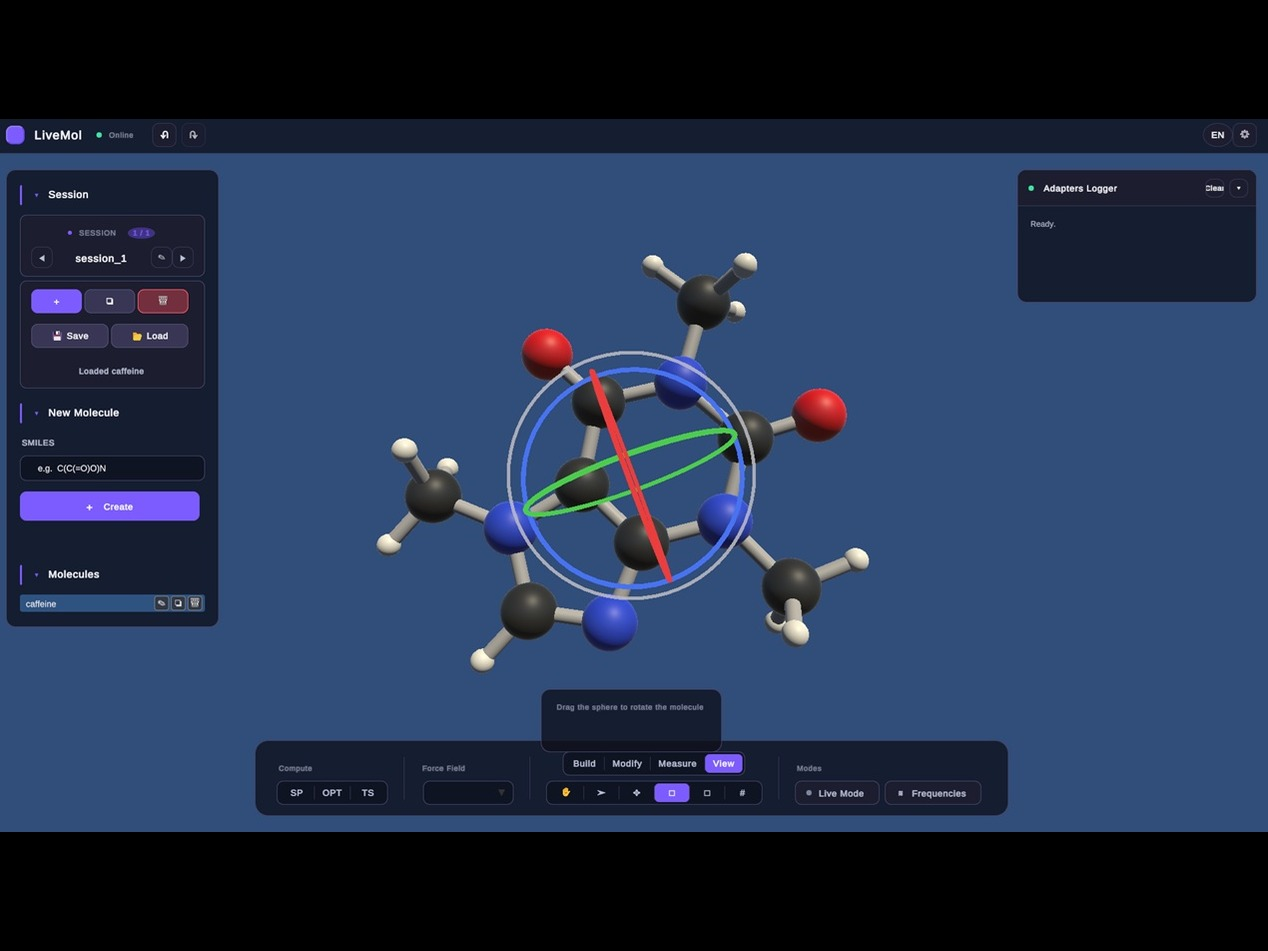
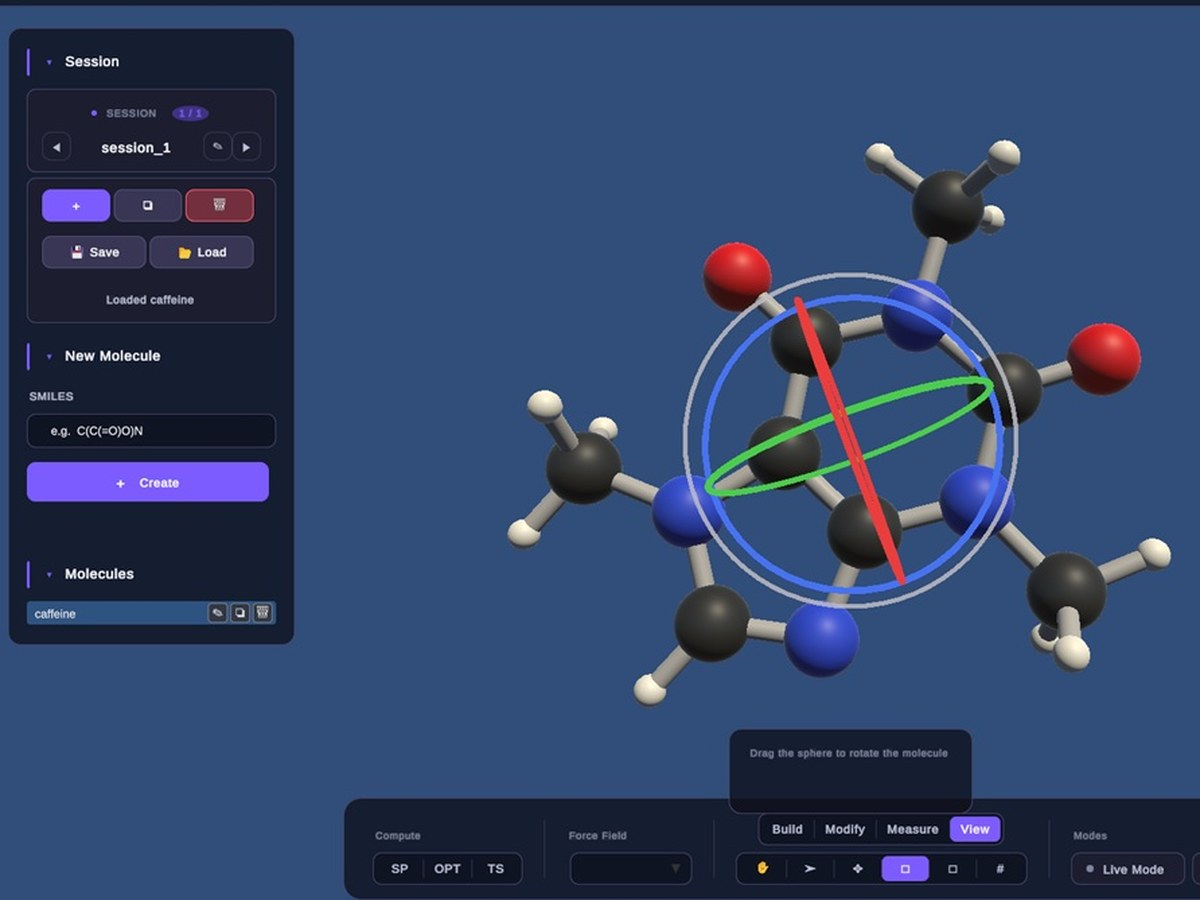
Recrop LiveMol thumbnail to molecule + Session panel (no bars); HE copy + author meta
- LiveMol thumbnail: crop source to the caffeine molecule (hero) plus the
  left Session panel for tool context, filling the 4:3 frame with no
  letterbox bars, cohesive with the other Selected Work cards. Reviewed/approved.
- Hebrew mobile copy word order: אפליקציות מרתקות לנייד.
- Add author meta (Julia Pavlov).

diff --git a/index.html b/index.html
@@ -5,6 +5,7 @@
 <meta name="viewport" content="width=device-width, initial-scale=1.0">
 <title>Red Crown Interactive · Graphical Application Development · XR, Mobile & PC</title>
 <meta name="description" content="Red Crown Interactive builds immersive, high-performance graphical applications in Unity for XR, mobile, and PC.">
+<meta name="author" content="Julia Pavlov">
 <link rel="icon" type="image/svg+xml" href="assets/logo-kit/redcrown-solid-scarlet.svg">
 <style>
 @font-face{font-family:'Chakra Petch';src:url('fonts/ChakraPetch-Bold.woff2')format('woff2');font-weight:700;font-display:swap}
@@ -508,7 +509,7 @@ const I18N = {
     "hero.ctaPrimary":"בואו נבנה יחד",
     "hero.ctaSecondary":"לצפייה בעבודות &nbsp;←",
     "svc.xr.title":"מציאות מדומה / משולבת","svc.xr.desc":"חוויות סוחפות שלוקחות את המשתמשים למציאויות חדשות. נבנה על Meta Quest 3, עם שלטים, מחוות ידיים ואינטראקציות ידיים מבוססות פיזיקה.","svc.xr.link":"גלו עוד ←",
-    "svc.mobile.title":"אפליקציות לנייד","svc.mobile.desc":"אפליקציות לנייד מרתקות עם ויזואליה מרהיבה וביצועים חלקים. פיתוח חוצה-פלטפורמות ל-iOS ול-Android, עם ניסיון בהשקת משחקים מסחריים למיליוני משתמשים.","svc.mobile.link":"גלו עוד ←",
+    "svc.mobile.title":"אפליקציות לנייד","svc.mobile.desc":"אפליקציות מרתקות לנייד עם ויזואליה מרהיבה וביצועים חלקים. פיתוח חוצה-פלטפורמות ל-iOS ול-Android, עם ניסיון בהשקת משחקים מסחריים למיליוני משתמשים.","svc.mobile.link":"גלו עוד ←",
     "svc.pc.title":"אפליקציות למחשב","svc.pc.desc":"אפליקציות ומשחקים בעלי ביצועים גבוהים, לצד אפליקציות מדעיות מורכבות בזמן אמת, למידת מכונה ועוד. בנויים לעוצמה ולדיוק.","svc.pc.link":"גלו עוד ←",
     "wwd.kicker":"מה אנחנו עושים",
     "wwd.1.title":"קונספט ועיצוב","wwd.1.desc":"מרעיונות לקונספטים מרתקים ולסיפור ויזואלי.",